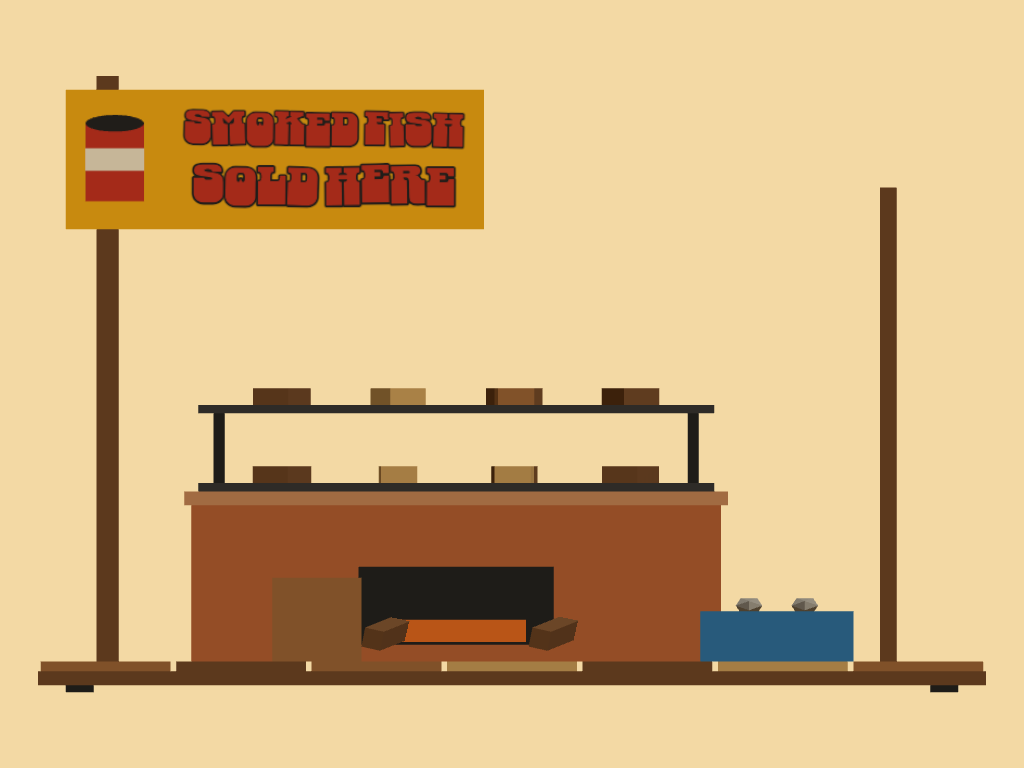
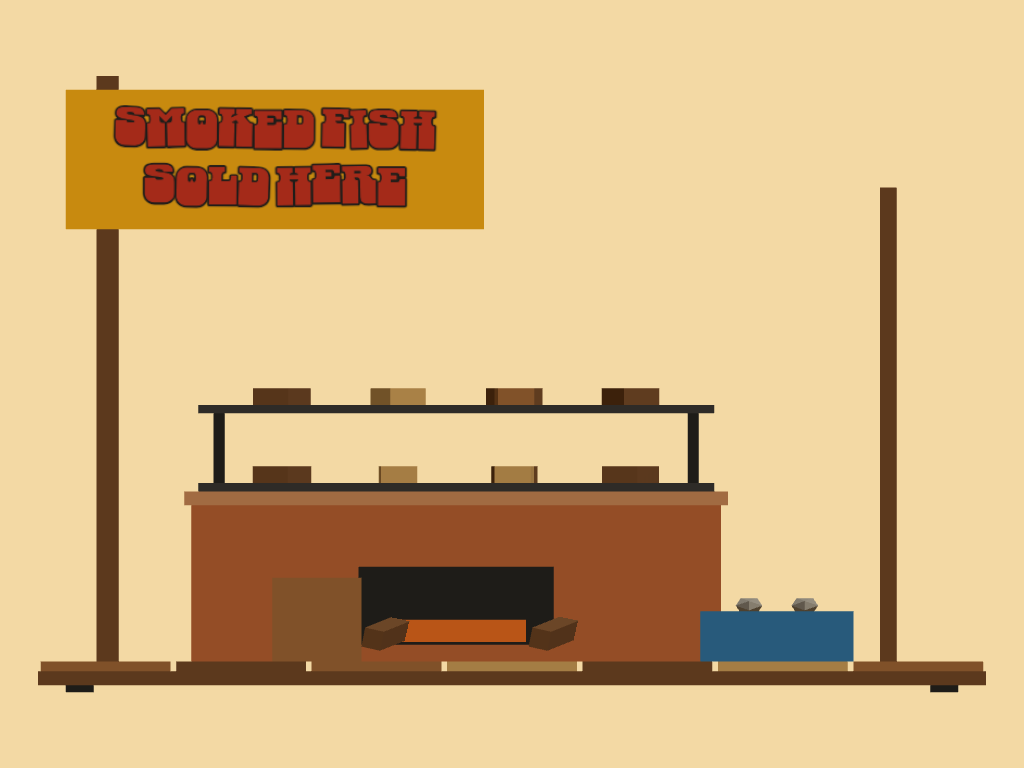
Makoko: the fish seller's board plain painted, and the kiln's smoke thinner so the boards behind it read

Changed region(s): [[0.0625, 0.125, 0.4688, 0.2812]]

diff --git a/tools/assets/catalog.ts b/tools/assets/catalog.ts
@@ -336,7 +336,7 @@ export const CATALOG: CatalogEntry[] = [
     ["bld_makoko-school", "school", () => buildSchool("place.makoko.sign.1", { board: "blue", ink: "white", painted: true })],
   ] as const).map(([name, folder, build]): CatalogEntry => ({ ...placePiece(name, "makoko", build, [...ELEVATIONS, "plan", "phone"]), source: `assets-src/bld/makoko-house/${folder}`, author: MAKOKO, ground: "lagoon" })),
   { ...placePiece("prop_plank-walkway", "makoko", buildPlankWalkway), author: MAKOKO, ground: "lagoon" },
-  { ...placePiece("prop_fish-racks", "makoko", () => buildFishRacks("place.makoko.sign.3", SIGN.painted)), author: MAKOKO, ground: "lagoon" },
+  { ...placePiece("prop_fish-racks", "makoko", () => buildFishRacks("place.makoko.sign.3", { board: "danfoYellow", ink: "red", painted: true })), author: MAKOKO, ground: "lagoon" },
   { ...placePiece("prop_canoe-goods", "makoko", buildCanoeGoods), source: "assets-src/prop/canoe-load/goods", author: MAKOKO, ground: "lagoon" },
   { ...placePiece("prop_canoe-school", "makoko", buildCanoeSchool), source: "assets-src/prop/canoe-load/school", author: MAKOKO, ground: "lagoon" },
   {
